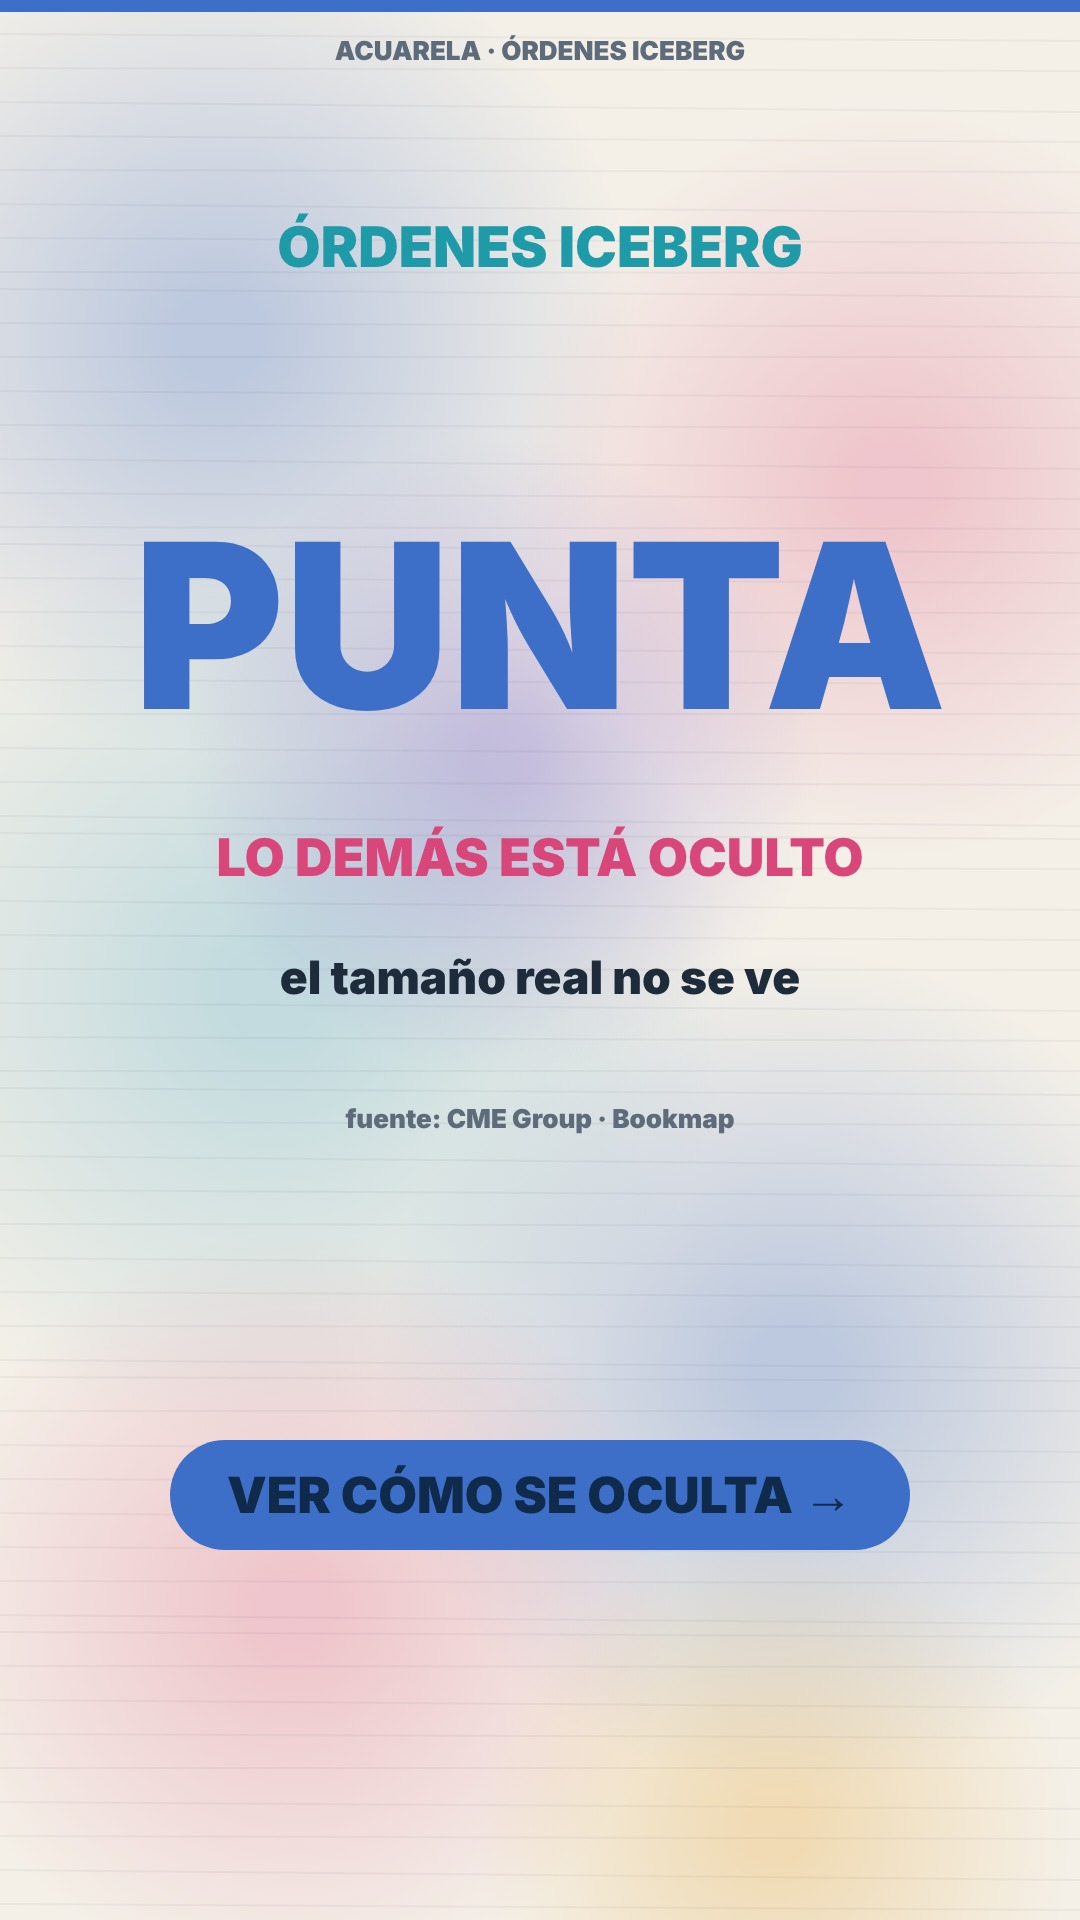
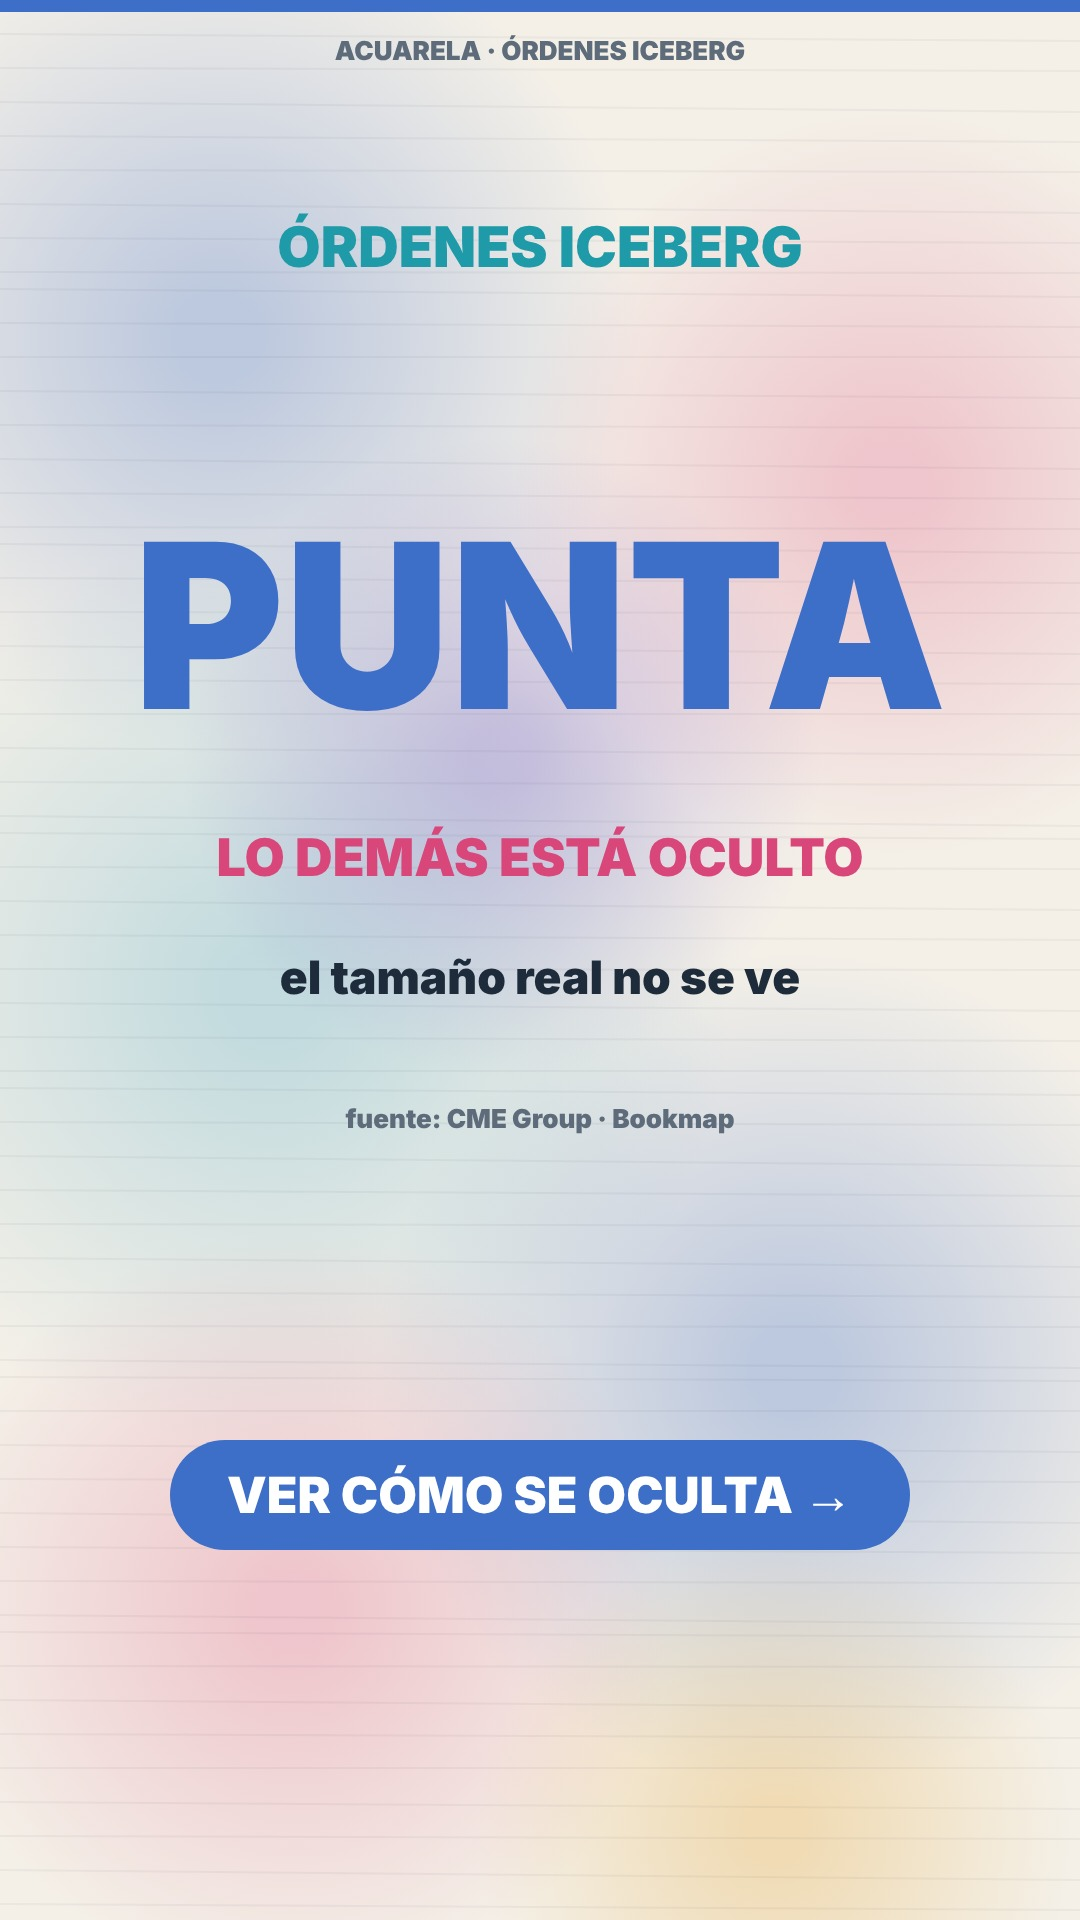
Carátula iceberg: texto del botón en blanco
Claude-Session: https://claude.ai/code/session_01Kc8QyEk67szTnwRHjBvfgk

Changed region(s): [[0.2139, 0.75, 0.7333, 0.8125]]

diff --git a/styles/v204_acuarela_iceberg.html b/styles/v204_acuarela_iceberg.html
@@ -25,6 +25,6 @@ function b3(t,al){std(t,al,20.6,"ICEBERG NATIVO (CME)",C[2],"MISMO ID",130,C[2],
 function b4(t,al){std(t,al,28.4,"ICEBERG SINTÉTICO",C[1],"ID NUEVO",140,C[1],"cada recarga cambia el OrderID",34,[[C[0],"Lo gestiona un servidor externo",null,34],[C[1],"Fuera de la bolsa (ISV)",null,38],[C[2],"Cada recarga: OrderID nuevo",null,36]],"fuente: CME Group (Market by Order)")}
 function b5(t,al){std(t,al,35.2,"CÓMO SE DETECTAN",C[3],"RASTRO",160,C[3],"datos MBO: orden nueva en el mismo nivel",30,[[C[0],"Aparece al instante tras ejecutarse",null,32],[C[1],"Solo son estimaciones",null,38],[C[2],"La parte oculta no se ve",null,38]],"fuente: Bookmap; CME Group")}
 function b6(t,a){endBlock(t,a,43.6,"El libro no muestra todo","Tu robot ve solo la punta",C[0],C[1])}
-function cover(){ST.bg(2);Lb("ÓRDENES ICEBERG",540,250,56,C[2],1);Lb("PUNTA",540,640,230,C[0],1);Lb("LO DEMÁS ESTÁ OCULTO",540,860,52,C[1],1);Lb("el tamaño real no se ve",540,980,46,'#1d2b3a',1);Lb("fuente: CME Group · Bookmap",540,1120,26,ST.mu,1);coverBtn("VER CÓMO SE OCULTA →",C[0],'#0f2a4a')}
+function cover(){ST.bg(2);Lb("ÓRDENES ICEBERG",540,250,56,C[2],1);Lb("PUNTA",540,640,230,C[0],1);Lb("LO DEMÁS ESTÁ OCULTO",540,860,52,C[1],1);Lb("el tamaño real no se ve",540,980,46,'#1d2b3a',1);Lb("fuente: CME Group · Bookmap",540,1120,26,ST.mu,1);coverBtn("VER CÓMO SE OCULTA →",C[0],'#ffffff')}
 function draw(t){drawBlocks(t,[[0,6.0,h0],[6.4,13.4,b1],[13.6,20.4,b2],[20.6,28.2,b3],[28.4,35.0,b4],[35.2,43.4,b5],[43.6,49.6,b6]])}
 </script></body></html>
